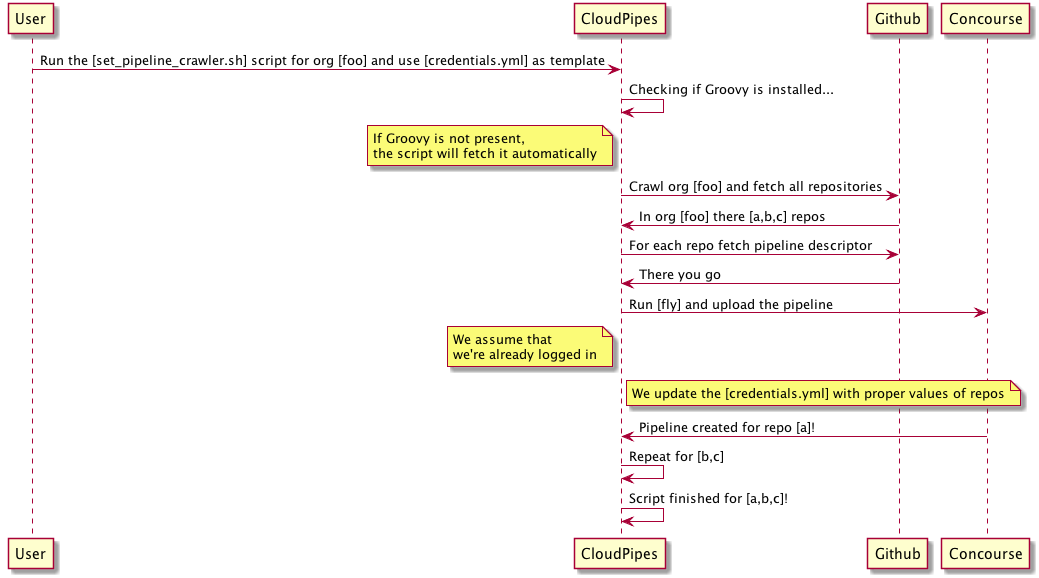
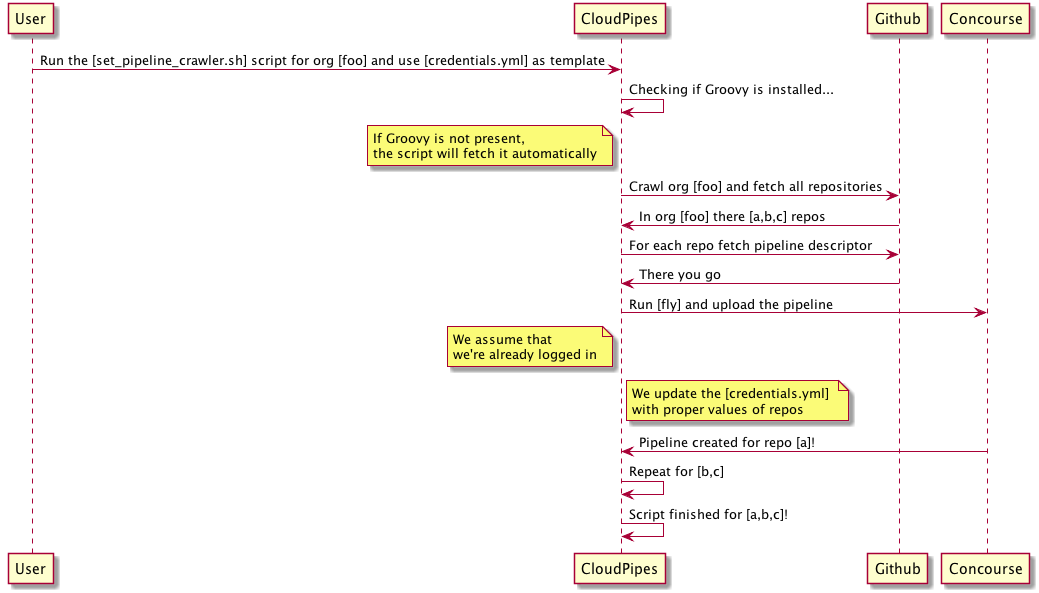
Polish

diff --git a/docs/INTRO.html b/docs/INTRO.html
@@ -564,7 +564,7 @@ that:</p>
 </div>
 <div class="imageblock">
 <div class="content">
-<img src="crawler.png" alt="crawler" width="1039" height="578">
+<img src="crawler.png" alt="crawler" width="1039" height="593">
 </div>
 </div>
 <div class="paragraph">
@@ -658,7 +658,7 @@ export CRAWLER_CREDENTIALS="${CRAWLER_CREDENTIALS:-}"</code></pre>
 </div>
 <div id="footer">
 <div id="footer-text">
-Last updated 2018-08-14 11:00:36 CEST
+Last updated 2018-08-14 11:18:39 CEST
 </div>
 </div>
 <link rel="stylesheet" href="https://cdnjs.cloudflare.com/ajax/libs/prettify/r298/prettify.min.css">

diff --git a/docs/DOCS.html b/docs/DOCS.html
@@ -761,7 +761,7 @@ that:</p>
 </div>
 <div class="imageblock">
 <div class="content">
-<img src="crawler.png" alt="crawler" width="1039" height="578">
+<img src="crawler.png" alt="crawler" width="1039" height="593">
 </div>
 </div>
 <div class="paragraph">

diff --git a/docs/README.html b/docs/README.html
@@ -779,7 +779,7 @@ that:</p>
 </div>
 <div class="imageblock">
 <div class="content">
-<img src="crawler.png" alt="crawler" width="1039" height="578">
+<img src="crawler.png" alt="crawler" width="1039" height="593">
 </div>
 </div>
 <div class="paragraph">

diff --git a/docs/index.html b/docs/index.html
@@ -761,7 +761,7 @@ that:</p>
 </div>
 <div class="imageblock">
 <div class="content">
-<img src="crawler.png" alt="crawler" width="1039" height="578">
+<img src="crawler.png" alt="crawler" width="1039" height="593">
 </div>
 </div>
 <div class="paragraph">
